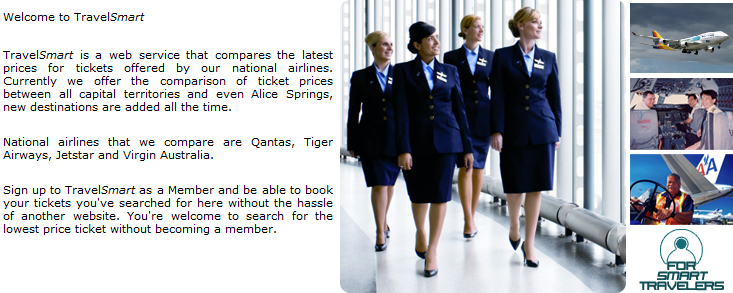
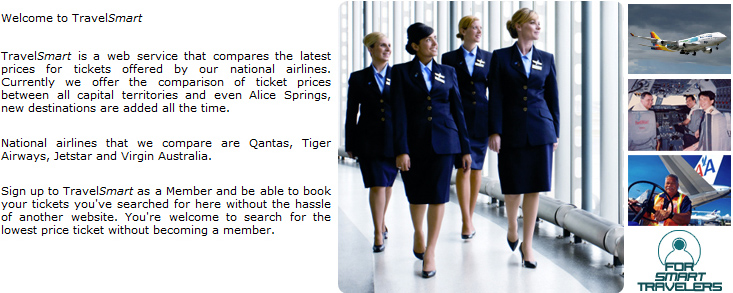
11th commit

diff --git a/about.htm b/about.htm
@@ -4,10 +4,10 @@
 
 <head>
 	<meta http-equiv="Content-Type" content="text/html; charset=utf-8" />
-	<title>Home</title>
+	<title>About Us</title>
 	<link href="basic_style.css" rel="stylesheet" type="text/css" />
 	<script type="text/javascript" src="search_valid.js"></script>
-	<style type="text/css">.wrapper #dumb{height:320px;}</style>
+	<style type="text/css">.wrapper #dumb{height:340px;}</style>
 </head>
 
 <body class = "wrapper">
@@ -23,11 +23,15 @@
     	<!-- content here -->
     	<div id = "dumb">
 			<br />
-            <img src="pics/home.jpg" class="right_image"/>  
-            <!--<p id="main_p">Welcome to Travel<i>Smart</i></p>
-            <p id="main_p">Travel<i>Smart</i> is a web service that compares the latest prices for tickets offered by our national airlines. Currently we offer the comparison of ticket prices between all capital territories and even Alice Springs, new destinations are added all the time.</p>
-            <p id="main_p">National airlines that we compare are Qantas, Tiger Airways, Jetstar and Virgin Australia.</p>
-            <p id="main_p">Sign up to Travel<i>Smart</i> as a Member and be able to book your tickets you've searched for here without the hassle of another website. You're welcome to search for the lowest price ticket without becoming a member.</p>-->    
+ 			<p><b>About Us</b></p>
+            <p>Travel<i>Smart</i> is a small Melbourne based website founded by four guys during university. During their first year, they were able to secure major sponsorship and reach almost 300,000 unique visitors and almost twice that in ticket sales.</p>
+			<p>Now with their second year Travel<i>Smart</i> compares prices for all the top airlines nationally, offering members a easy to use service to find exactly what they're looking for every time, all the time. Travel<i>Smart</i> boasts a 99.999% downtime, which means they're only down about five minutes a year.</p>
+            <p>With plans to go international, Travel<i>Smart</i> is set to make some exiting changes.</p>
+            <br /><p><b>Contact Us</b></p>
+            <p>Ticket Reservations Line (20+ people): 1800 123 456</p>
+            <p>General Inquires Line: 1800 111 111</p>
+            <p>Ticket Reservations E-Mail: <a href="ticket@travelsmart.com">Tickets</a></p>
+            <p>Web Master E-Mail: <a href="webmaster@travelsmart.com">Web Master</a></p>
     	</div>
     
 		<div id = "footer">

diff --git a/agent.htm b/agent.htm
@@ -4,10 +4,10 @@
 
 <head>
 	<meta http-equiv="Content-Type" content="text/html; charset=utf-8" />
-	<title>Home</title>
+	<title>Agent</title>
 	<link href="basic_style.css" rel="stylesheet" type="text/css" />
 	<script type="text/javascript" src="search_valid.js"></script>
-	<style type="text/css">.wrapper #dumb{height:320px;}</style>
+	<style type="text/css">.wrapper #dumb{height:200px;}</style>
 </head>
 
 <body class = "wrapper">
@@ -23,11 +23,8 @@
     	<!-- content here -->
     	<div id = "dumb">
 			<br />
-            <img src="pics/home.jpg" class="right_image"/>  
-            <!--<p id="main_p">Welcome to Travel<i>Smart</i></p>
-            <p id="main_p">Travel<i>Smart</i> is a web service that compares the latest prices for tickets offered by our national airlines. Currently we offer the comparison of ticket prices between all capital territories and even Alice Springs, new destinations are added all the time.</p>
-            <p id="main_p">National airlines that we compare are Qantas, Tiger Airways, Jetstar and Virgin Australia.</p>
-            <p id="main_p">Sign up to Travel<i>Smart</i> as a Member and be able to book your tickets you've searched for here without the hassle of another website. You're welcome to search for the lowest price ticket without becoming a member.</p>-->    
+			<p>Welcome to Travel<i>Smart</i>!</p>
+            <img src="pics/logo.jpg" />
     	</div>
     
 		<div id = "footer">

diff --git a/site.htm b/site.htm
@@ -50,6 +50,7 @@
                 <li>Site Map</li>
                 <li>Ticket Search Page</li>
                 <li>Home Page</li>
+                <li>About Us / Contact Us</li>
             </ul>
     	</div>
     
@@ -66,6 +67,7 @@
                     <li><a href="policy.htm">Privacy Policy</a></li>
                     <li><a href="search.htm">Search</a></li>
 					<li><a href="home.htm">Home</a></li>
+                    <li><a href="about.htm">About Us/Contact Us</a></li>
                 </ul>
             </div>
             <div id = "mid">

diff --git a/basic_style.css b/basic_style.css
@@ -65,11 +65,17 @@ body {
 	Xclear: both;
 }
 
+.wrapper a:link, a:visited, a:active, a:hover {
+	color: #105b63;
+	text-decoration: none;
+}
+
 #dumb p {
 	color: #000;
 	padding-left: 10px;
 	padding-right: 10px;
 	font-size: 11px;
+	text-align: justify;
 }
 
 .right_image{
